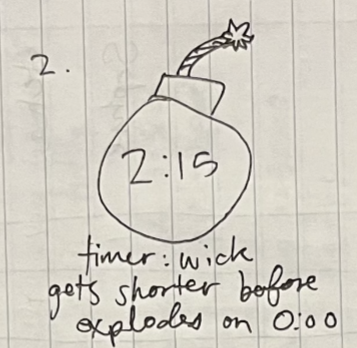
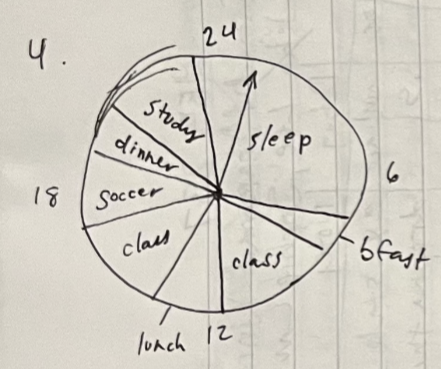
updating sketch names and id's for consistency, starting on first p5.js sketch

diff --git a/index.html b/index.html
@@ -18,7 +18,7 @@
 
             <!-- Homework 4 -->
             <button type="button" class="tab-btn" data-target="hwk4" role="tab">HWK 4. Desc</button>
-            <button type="button" class="tab-btn" data-target="tab2" data-sketch="sk2" role="tab">HWK 4. A</button>
+            <button type="button" class="tab-btn" data-target="tab2" data-sketch="spiralclock" role="tab">HWK 4. A</button>
             <button type="button" class="tab-btn" data-target="tab3" data-sketch="sk3" role="tab">HWK 4. B</button>
             <button type="button" class="tab-btn" data-target="tab4" data-sketch="sk4" role="tab">HWK 4. C</button>
 
@@ -58,18 +58,23 @@
                     <p>
                         This sketch is a digital evolution of an analog clock used for entertainment and telling time.
                     <ul>
-                        <li><strong>Context:</strong> This is for computer users who appreciate aesthetics. Ideally, it's used as a widget.</li>
-                        <li><strong>Design decisions:</strong> I chose to follow the tradition layout of a clock so users would easily recognize
-                        it as a clock. I chose to label the dots because I was worried users wouldn't be able to read the time otherwise.</li>
-                        <li><strong>Future work:</strong> As a widget, I would allow users to change the color of the clock since it's used for
-                        it's aesthetics. I would also like to be able to toggle between labeled dots and hour ticks around the clock.</li>
+                        <li><strong>Context:</strong> This is for computer users who appreciate aesthetics. Ideally,
+                            it's used as a widget.</li>
+                        <li><strong>Design decisions:</strong> I chose to follow the tradition layout of a clock so
+                            users would easily recognize
+                            it as a clock. I chose to label the dots because I was worried users wouldn't be able to
+                            read the time otherwise.</li>
+                        <li><strong>Future work:</strong> As a widget, I would allow users to change the color of the
+                            clock since it's used for
+                            it's aesthetics. I would also like to be able to toggle between labeled dots and hour ticks
+                            around the clock.</li>
                     </ul>
                     </p>
                 </div>
 
                 <h3>Sketch evolution</h3>
                 <figure>
-                    <img src="images/sk1-evolution-1.png" alt="Sketch #1 - step 1" />
+                    <img src="images/sk2-evolution-1.png" alt="Sketch #1 - step 1" />
                     <figcaption>Step 1 — initial layout and annotated design decisions</figcaption>
                 </figure>
                 <figure>
@@ -86,32 +91,36 @@
         <!-- Homework 4: Sketch 2 -->
         <section id="tab3" class="tab-content" role="tabpanel">
             <div id="sketch-container-sk3" class="sketch-container"></div>
-            <div id="sketch-drawing-sk2" class="sketch-evolution">
+            <div id="sketch-drawing-sk3" class="sketch-evolution">
                 <!-- Project narrative template: replace the text below with your own narrative -->
-                <div class="sketch-narrative" aria-labelledby="sk2-narrative-title">
-                    <h3 id="sk2-narrative-title">Sketch narrative (replace this and add to the other two sketches!)</h3>
+                <div class="sketch-narrative" aria-labelledby="sk3-narrative-title">
+                    <h3 id="sk3-narrative-title">Sketch narrative (replace this and add to the other two sketches!)</h3>
                     <p>
                         This sketch visualizes the user's daily tasks in the form of a 24 hour pie chart style clock.
                     <ul>
-                        <li><strong>Context:</strong> This is used for task/time management for work, school, or personal life.</li>
-                        <li><strong>Design decisions:</strong> I made it a 24 hour clock to represent a full day, including the night.
-                        I chose to only include one hand to represent the hour as a minute hand on a pie chart would be confusing.</li>
-                        <li><strong>Future work:</strong> I want to allow users to input their own tasks and time of day. </li>
+                        <li><strong>Context:</strong> This is used for task/time management for work, school, or
+                            personal life.</li>
+                        <li><strong>Design decisions:</strong> I made it a 24 hour clock to represent a full day,
+                            including the night.
+                            I chose to only include one hand to represent the hour as a minute hand on a pie chart would
+                            be confusing.</li>
+                        <li><strong>Future work:</strong> I want to allow users to input their own tasks and time of
+                            day. </li>
                     </ul>
                     </p>
                 </div>
 
                 <h3>Sketch evolution</h3>
                 <figure>
-                    <img src="images/sk2-evolution-1.png" alt="Sketch #2 - step 1" />
+                    <img src="images/sk3-evolution-1.png" alt="Sketch #2 - step 1" />
                     <figcaption>Step 1 — initial layout and annotated design decisions</figcaption>
                 </figure>
                 <figure>
-                    <!-- <img src="images/sk2-evolution-2.png" alt="Sketch #A - step 2" /> -->
+                    <!-- <img src="images/sk3-evolution-2.png" alt="Sketch #A - step 2" /> -->
                     <figcaption>Step 2 — second layout after peer feedback</figcaption>
                 </figure>
                 <figure>
-                    <!-- <img src="images/sk2-evolution-3.png" alt="Sketch #A - step 3" /> -->
+                    <!-- <img src="images/sk3-evolution-3.png" alt="Sketch #A - step 3" /> -->
                     <figcaption>Step 3 — refined visuals and annotations</figcaption>
                 </figure>
             </div>
@@ -120,34 +129,36 @@
         <!-- Homework 4: Sketch 3 -->
         <section id="tab4" class="tab-content" role="tabpanel">
             <div id="sketch-container-sk4" class="sketch-container"></div>
-            <div id="sketch-drawing-sk2" class="sketch-evolution">
+            <div id="sketch-drawing-sk4" class="sketch-evolution">
                 <!-- Project narrative template: replace the text below with your own narrative -->
-                <div class="sketch-narrative" aria-labelledby="sk2-narrative-title">
-                    <h3 id="sk2-narrative-title">Sketch narrative (replace this and add to the other two sketches!)</h3>
+                <div class="sketch-narrative" aria-labelledby="sk4-narrative-title">
+                    <h3 id="sk4-narrative-title">Sketch narrative (replace this and add to the other two sketches!)</h3>
                     <p>
                         This sketch represents a countdown timer that mimics a bomb going off.
                     <ul>
                         <li><strong>Context:</strong> This is a timer for anyone who works better under pressure.
-                        It could be used in any countdown context, such as alloted time to finish a test. </li>
-                        <li><strong>Design decisions:</strong> I chose to make it explode when it finishes so the user knows the time is up.
-                        I chose a bomb image to mentally install a sense of urgency in the user. </li>
+                            It could be used in any countdown context, such as alloted time to finish a test. </li>
+                        <li><strong>Design decisions:</strong> I chose to make it explode when it finishes so the user
+                            knows the time is up.
+                            I chose a bomb image to mentally install a sense of urgency in the user. </li>
                         <li><strong>Future work:</strong> I hope to make the wick get smaller as the time ticks down.
-                        I also want the time to be displayed in red when there are less than 30 seconds remaining. </li>
+                            I also want the time to be displayed in red when there are less than 30 seconds remaining.
+                        </li>
                     </ul>
                     </p>
                 </div>
 
                 <h3>Sketch evolution</h3>
                 <figure>
-                    <img src="images/sk3-evolution-1.png" alt="Sketch #3 - step 1" />
+                    <img src="images/sk4-evolution-1.png" alt="Sketch #3 - step 1" />
                     <figcaption>Step 1 — initial layout and annotated design decisions</figcaption>
                 </figure>
                 <figure>
-                    <!-- <img src="images/sk2-evolution-2.png" alt="Sketch #A - step 2" /> -->
+                    <!-- <img src="images/sk4-evolution-2.png" alt="Sketch #A - step 2" /> -->
                     <figcaption>Step 2 — second layout after peer feedback</figcaption>
                 </figure>
                 <figure>
-                    <!-- <img src="images/sk2-evolution-3.png" alt="Sketch #A - step 3" /> -->
+                    <!-- <img src="images/sk4-evolution-3.png" alt="Sketch #A - step 3" /> -->
                     <figcaption>Step 3 — refined visuals and annotations</figcaption>
                 </figure>
             </div>

diff --git a/sketches/sketch2.js b/sketches/sketch2.js
@@ -1,14 +1,42 @@
 // Instance-mode sketch for tab 2: spiral clock
-registerSketch('sk2', function (p) {
+registerSketch('spiralclock', function (p) {
+// const spiralclock = (p) => {
+  let angle = 0; // starting angle
+  let radius = 0; // radius of the circle motion
+  let spd = 0.005; // speed of the motion
+  let radiusUp = 0.05; //increase the radius
+
+  let previousX; // declared previous x position variable
+  let previousY; // declared previous y position variable
+
   p.setup = function () {
-    p.createCanvas(p.windowWidth, p.windowHeight);
+    createCanvas(400, 400);
+    background(255);
+    rectMode(CENTER);
   };
+
   p.draw = function () {
-    p.background(220);
-    p.fill(100, 150, 240);
-    p.textSize(32);
-    p.textAlign(p.CENTER, p.CENTER);
-    p.text('HWK #4. A', p.width / 2, p.height / 2);
+    // calculate the x and y coordinates of the circle
+    let x = width / 2 + cos(angle) * radius;
+    let y = height / 2 + sin(angle) * radius;
+
+    // increase the angle to create motion
+    angle += spd;
+
+    // increase the radius to make it grow as spiral
+    radius += radiusUp;
+
+    // draw the circle
+    stroke(0);
+    strokeWeight(2);
+    line(x, y, previousX, previousY); //throws a wild error in the first loop, but work from the second loop :D
+
+    // save current position as previous position
+    previousX = x;
+    previousY = y;
   };
-  p.windowResized = function () { p.resizeCanvas(p.windowWidth, p.windowHeight); };
+
+  p.windowResized = function() { p.resizeCanvas(p.windowWidth, p.windowHeight); };
 });
+
+// let myp5 = new p5(spiralclock, 'sk2');
